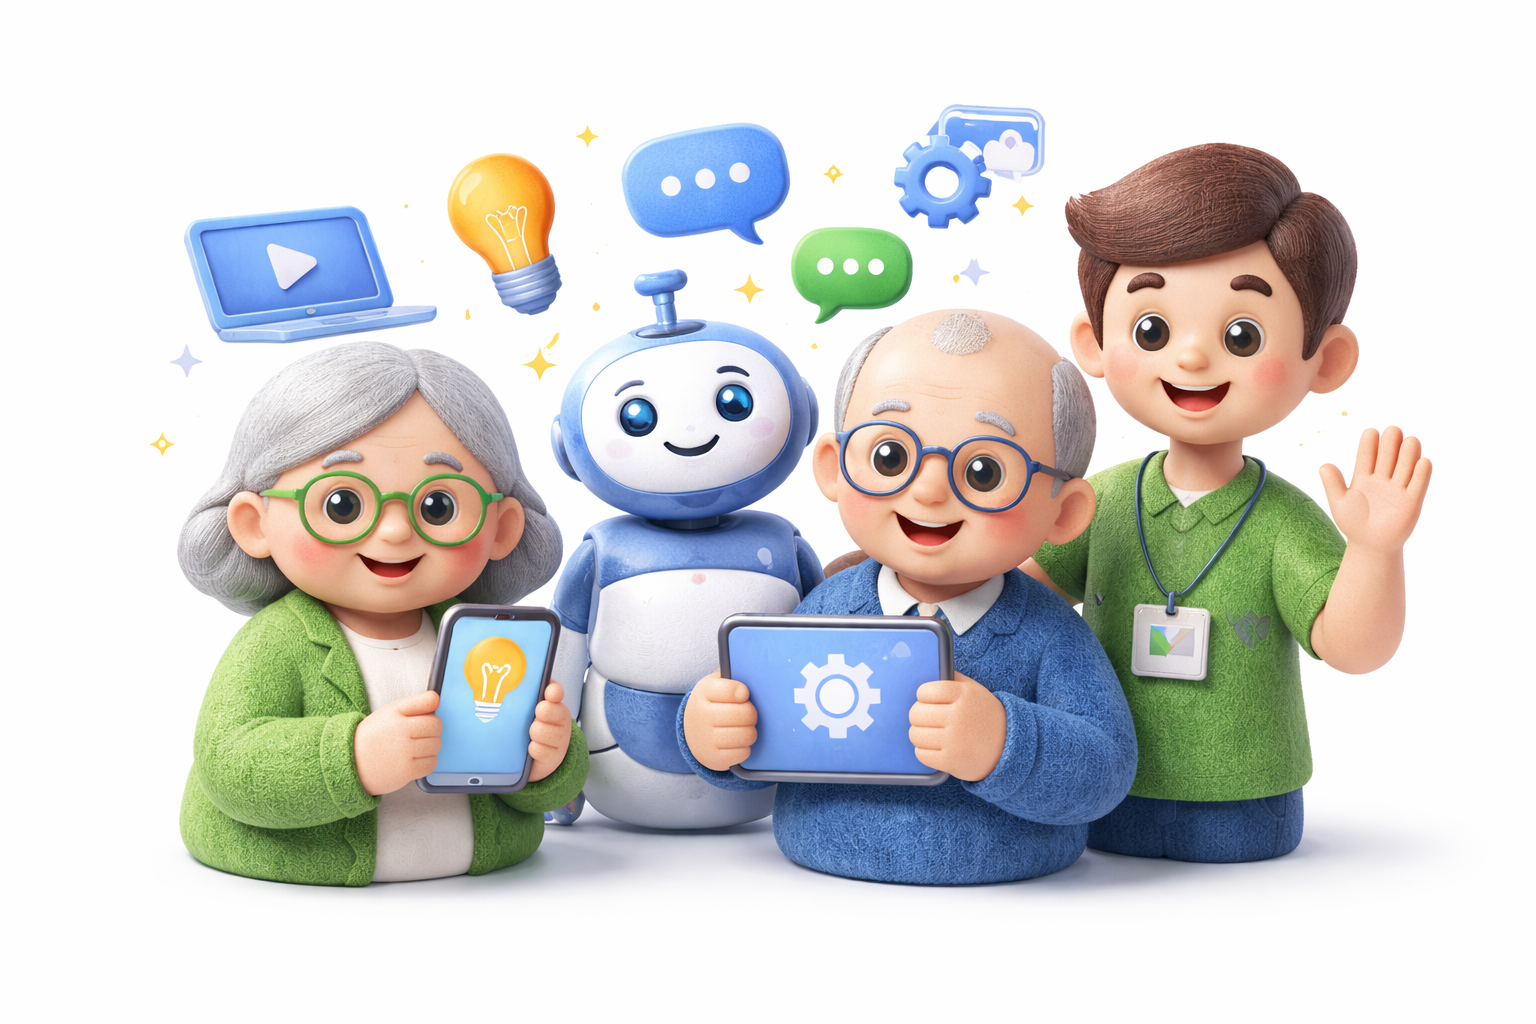
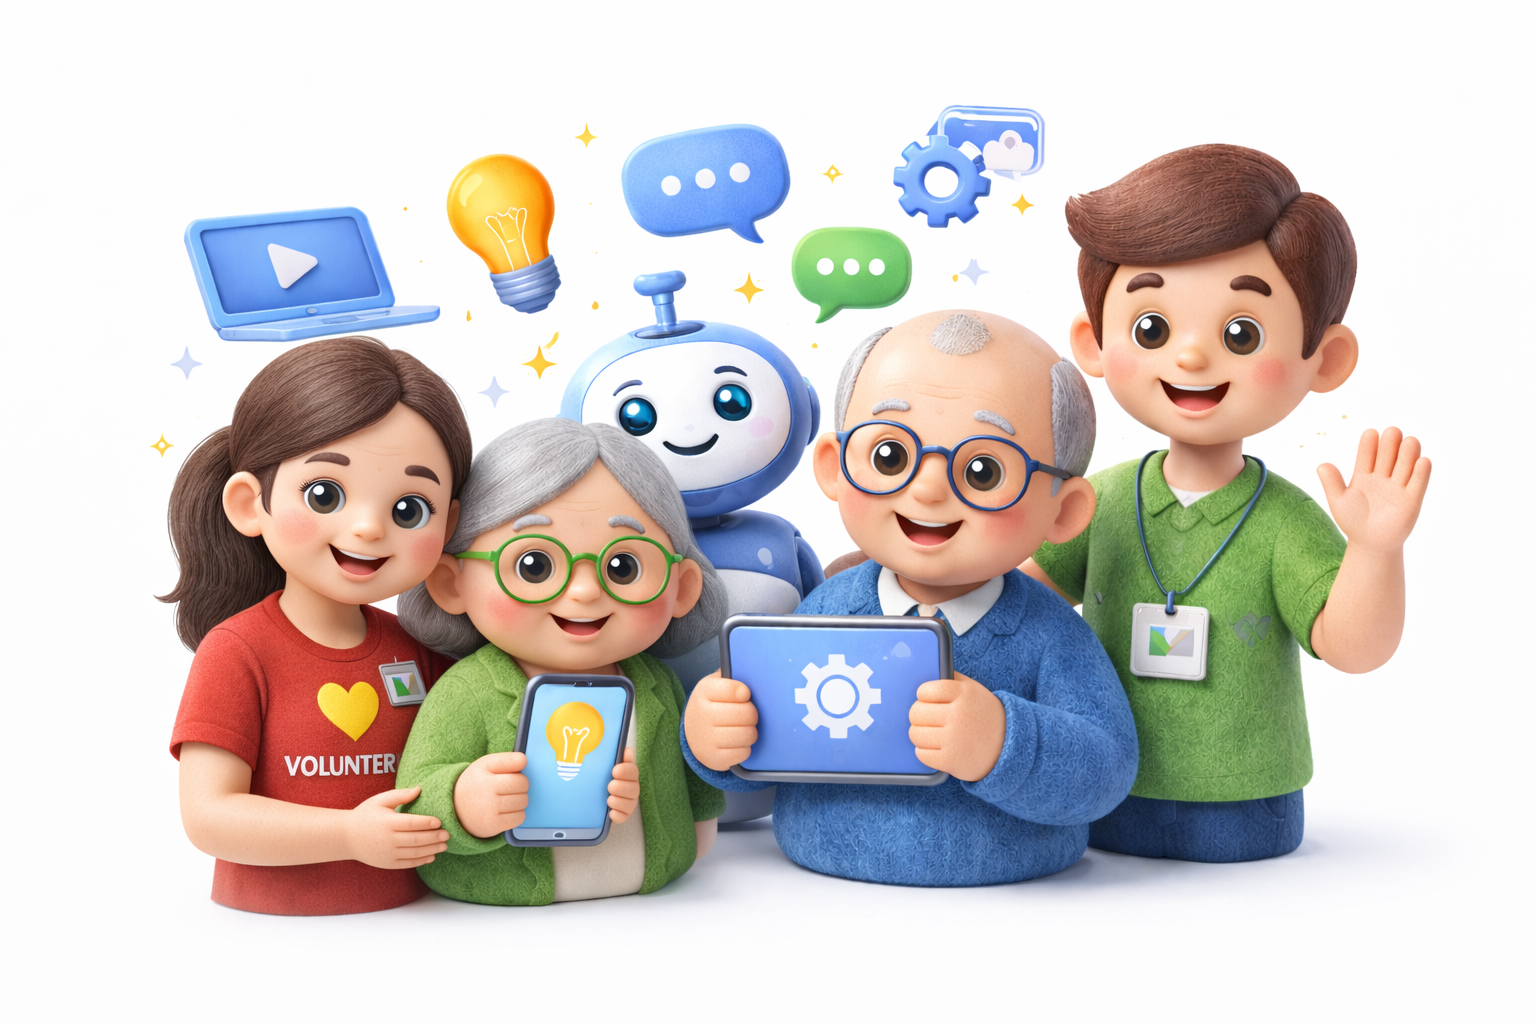
separated home page for senior and volunteer

diff --git a/src/app/features/home/home.component.html b/src/app/features/home/home.component.html
@@ -1,3 +1,58 @@
-<div >
-    Homeeee
+<div class="container py-5">
+    <div class="row mb-5">
+        <div class="col-12 text-center text-md-start">
+        <h1 class="display-5 fw-bold" style="color: #003366;">
+            {{greetingMessage}}<span class="text-primary">{{ userName }}</span>
+        </h1>
+        @if (userRole === "SENIOR") {
+            <p class="lead text-muted">¿Cómo le puedo ayudar hoy?</p>
+        } @else {
+            <p class="lead text-muted">¡Gracias por acercar la tecnología a todos!</p>
+        }
+        </div>
+    </div>
+
+    <div class="row align-items-center g-5">
+        <div class="col-md-6 text-center">
+            @if(userRole === 'SENIOR'){
+                <img src="images/senior.png" class="img-fluid rounded-5 shadow-sm" 
+                    style="max-height: 450px;" alt="Bienvenida">
+            }@else{
+                <img src="images/volunteer.png" class="img-fluid rounded-5 shadow-sm" 
+                style="max-height: 450px;" alt="Bienvenida">
+            }
+        </div>
+
+        <div class="col-md-6">
+            <div class="d-grid gap-4">
+            @if (userRole === 'SENIOR') {
+                <button (click)="navigateTo('new-request')" class="btn-option shadow-sm">
+                    <span>Solicitar nueva Ayuda</span>
+                    <i class="bi bi-plus-circle-fill"></i>
+                </button>
+                <button (click)="navigateTo('my-requests')" class="btn-option shadow-sm text-start">
+                    <span>Mis solicitudes</span>
+                    <i class="bi bi-calendar-event"></i>
+                </button>
+                <button (click)="navigateTo('profile')" class="btn-option shadow-sm text-start">
+                    <span>Mi perfil</span>
+                    <i class="bi bi-person-gear"></i>
+                </button>
+            }@else{
+                <button (click)="navigateTo('available-requests')" class="btn-option shadow-sm volunteer">
+                    <span>Ayudas disponibles</span>
+                    <i class="bi bi-search"></i>
+                </button>
+                <button (click)="navigateTo('my-tasks')" class="btn-option shadow-sm volunteer">
+                    <span>Mis ayudas realizadas</span>
+                    <i class="bi bi-hand-thumbs-up"></i>
+                </button>
+                <button (click)="navigateTo('profile')" class="btn-option shadow-sm volunteer">
+                    <span>Mi perfil</span>
+                    <i class="bi bi-person-gear"></i>
+                </button>  
+            }
+            </div>
+        </div>
+    </div>
 </div>

diff --git a/src/app/features/home/home.component.css b/src/app/features/home/home.component.css
@@ -1,0 +1,39 @@
+.btn-option {
+  background: white;
+  border: 3px solid #8EBFFB;
+  border-radius: 20px;
+  padding: 2rem;
+  font-size: 1.5rem;
+  font-weight: 700;
+  color: #003366;
+  display: flex;
+  justify-content: space-between;
+  align-items: center;
+  transition: all 0.3s ease;
+  text-align: left;
+
+  i {
+    font-size: 2rem;
+    color: #8EBFFB;
+  }
+
+  &:hover {
+    transform: translateY(-5px);
+    background-color: #f0f7ff;
+    border-color: #003366;
+  }
+
+  &.volunteer {
+    border-color: #a2cf6e;
+    i { color: #a2cf6e; }
+    &:hover { background-color: #f4faf0; border-color: #4e7a17; }
+  }
+}
+
+@media (max-width: 768px) {
+  .btn-option {
+    padding: 1.2rem;
+    font-size: 1.1rem;
+    i { font-size: 1.5rem; }
+  }
+}

diff --git a/src/app/features/home/home.component.ts b/src/app/features/home/home.component.ts
@@ -1,5 +1,6 @@
 import { Component, OnInit } from '@angular/core';
 import { AuthService } from '../../core/auth/auth.service';
+import { Router } from '@angular/router';
 
 @Component({
   selector: 'app-home',
@@ -7,13 +8,35 @@ import { AuthService } from '../../core/auth/auth.service';
   styleUrl: './home.component.css'
 })
 export class HomeComponent implements OnInit {
-
-  constructor(private readonly authService: AuthService) { }
+  constructor(private readonly authService: AuthService, private readonly router: Router) { }
+  userName: string = '';
+  userRole: string = '';
+  userEmail: string = '';
 
   ngOnInit() {
-    if (!this.authService.authenticated) {
-        this.authService.login();
-    }
+    this.userName = this.authService.firstname;
+    this.userRole = this.authService.role;
+    this.userEmail = this.authService.email;
+
+    console.log('User Info:', {
+      name: this.userName,
+      role: this.userRole,
+      email: this.userEmail
+    });
   }
 
+  navigateTo(rute: string) {
+    this.router.navigate([rute]);
+  }
+
+  get greetingMessage(): string {
+    const hour = new Date().getHours();
+    if (hour >= 6 && hour < 12) {
+      return 'Buenos días, '
+    } else if (hour >= 12 && hour < 20) {
+      return 'Buenas tardes, '
+    } else {
+      return 'Buenas noches, '
+    }
+  } 
 }

diff --git a/src/app/shared/layout/main-layout/main-layout.component.ts b/src/app/shared/layout/main-layout/main-layout.component.ts
@@ -1,0 +1,29 @@
+import { Component, OnInit } from '@angular/core';
+import { Router, RouterOutlet } from "@angular/router";
+import { AuthService } from '../../../core/auth/auth.service';
+
+@Component({
+  selector: 'app-main-layout',
+  templateUrl: './main-layout.component.html',
+  styleUrls: ['./main-layout.component.css'],
+  imports: [RouterOutlet]
+})
+export class MainLayoutComponent implements OnInit {
+
+  constructor(private readonly authService: AuthService, private readonly router: Router) { }
+
+  userRole: string = '';
+
+  ngOnInit() {
+    this.userRole = this.authService.role;
+  }
+
+  logout(): void {
+      this.authService.logout();
+  }
+
+  navigateTo(rute: string) {
+    this.router.navigate([rute]);
+  }
+
+}

diff --git a/src/app/shared/layout/main-layout/main-layout.component.spec.ts b/src/app/shared/layout/main-layout/main-layout.component.spec.ts
@@ -1,0 +1,28 @@
+/* tslint:disable:no-unused-variable */
+import { async, ComponentFixture, TestBed } from '@angular/core/testing';
+import { By } from '@angular/platform-browser';
+import { DebugElement } from '@angular/core';
+
+import { MainLayoutComponent } from './main-layout.component';
+
+describe('MainLayoutComponent', () => {
+  let component: MainLayoutComponent;
+  let fixture: ComponentFixture<MainLayoutComponent>;
+
+  beforeEach(async(() => {
+    TestBed.configureTestingModule({
+      declarations: [ MainLayoutComponent ]
+    })
+    .compileComponents();
+  }));
+
+  beforeEach(() => {
+    fixture = TestBed.createComponent(MainLayoutComponent);
+    component = fixture.componentInstance;
+    fixture.detectChanges();
+  });
+
+  it('should create', () => {
+    expect(component).toBeTruthy();
+  });
+});

diff --git a/src/app/shared/layout/main-layout/main-layout.component.html b/src/app/shared/layout/main-layout/main-layout.component.html
@@ -1,0 +1,27 @@
+<div class="d-flex flex-column min-vh-100">
+  <header class="navbar navbar-light bg-white shadow-sm px-4 py-3 sticky-top">
+    <div class="container-fluid d-flex justify-content-between align-items-center">
+      <a (click)="navigateTo('/')" style="cursor: pointer;"><img src="images/logo-clean.png" height="45" alt="TechBridge Logo"></a>
+      
+      <div class="d-flex align-items-center gap-3">
+        <span class="badge rounded-pill bg-light text-primary border p-2 px-3 d-none d-md-block" style="font-size: 16px;">
+          {{ userRole }}
+        </span>
+        <button (click)="logout()" class="btn btn-outline-danger btn-md d-flex align-items-center gap-2">
+          <i class="bi bi-box-arrow-right"></i> Salir
+        </button>
+      </div>
+    </div>
+  </header>
+
+  <main class="flex-grow-1">
+    <router-outlet></router-outlet>
+  </main>
+
+  <footer class="bg-dark text-white py-4 mt-5">
+    <div class="container text-center">
+      <p class="mb-1 fw-bold">TechBridge © 2026</p>
+      <small >Conectando generaciones a través de la tecnología.</small>
+    </div>
+  </footer>
+</div>

diff --git a/src/app/core/auth/auth.service.ts b/src/app/core/auth/auth.service.ts
@@ -14,12 +14,12 @@ export class AuthService {
     this.oidcSecurityService.authorize();
   }
 
-    logout(): void {
-        this.oidcSecurityService.logoff().subscribe(() => {
-            this.firstname = '';
-            this.email = '';
-            this.role = '';
-            this.authenticated = false;
-        });
-    }
+  logout(): void {
+      this.oidcSecurityService.logoff().subscribe(() => {
+          this.firstname = '';
+          this.email = '';
+          this.role = '';
+          this.authenticated = false;
+      });
+  }
 }

diff --git a/src/app/app.routes.ts b/src/app/app.routes.ts
@@ -2,9 +2,19 @@ import { Routes } from '@angular/router';
 import { HomeComponent } from './features/home/home.component';
 import { LoginCallbackComponent } from './features/auth/pages/LoginCallbackComponent';
 import { RegisterComponent } from './features/register/register.component';
+import { AutoLoginPartialRoutesGuard } from 'angular-auth-oidc-client';
+import { MainLayoutComponent } from './shared/layout/main-layout/main-layout.component';
 
 export const routes: Routes = [
-  {path: '', component:HomeComponent},
+  {
+    path:'',
+    component:MainLayoutComponent,
+    canActivate: [AutoLoginPartialRoutesGuard],
+    children:[
+      {path: 'home', component: HomeComponent},
+      {path:'',redirectTo:'home',pathMatch:'full'}
+    ]
+  },
   {path: 'callback', component: LoginCallbackComponent},
   {path:'register', component:RegisterComponent}
 ];